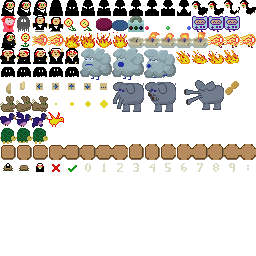
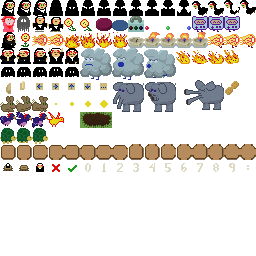
Clean up drums, and lots of graphics and maps tweaks

diff --git a/src/game/hero/hero_event.c b/src/game/hero/hero_event.c
@@ -194,6 +194,12 @@ static void hero_cast_fireball(struct sprite *sprite,double dx) {
 static void hero_cast_fireballl(struct sprite *sprite) { hero_cast_fireball(sprite,-1.0); }
 static void hero_cast_fireballr(struct sprite *sprite) { hero_cast_fireball(sprite,1.0); }
 
+static void hero_cast_invalid(struct sprite *sprite) {
+  // Called for loose UUUU and DDDD. A user might think that those would cause a vertical fireball, but we don't do vertical.
+  sfx(SFX_INVALID_SPELL);
+  SPRITE->spellc=0;
+}
+
 /* Turn into flower.
  */
  
@@ -271,6 +277,8 @@ static void hero_check_free_spell(struct sprite *sprite) {
   SPELLCHECK(fireballr,DIR_E,DIR_E,DIR_E,DIR_E)
   SPELLCHECK(flower,DIR_S,DIR_S,DIR_N,DIR_S)
   SPELLCHECK(disembody,DIR_N,DIR_W,DIR_E,DIR_S,DIR_N)
+  SPELLCHECK(invalid,DIR_N,DIR_N,DIR_N,DIR_N)
+  SPELLCHECK(invalid,DIR_S,DIR_S,DIR_S,DIR_S)
   #undef SPELLCHECK
 }
 

diff --git a/src/game/sprite/types/sprite_lock.c b/src/game/sprite/types/sprite_lock.c
@@ -17,7 +17,7 @@ static int _lock_init(struct sprite *sprite,const uint8_t *def,int defc) {
 
 static void _lock_update(struct sprite *sprite,double elapsed) {
   if (SPRITE->unlock_clock>0.0) {
-    if ((SPRITE->unlock_clock+=elapsed)>4.0) {
+    if ((SPRITE->unlock_clock+=elapsed)>2.0) {
       sprite_kill_later(sprite);
       return;
     }

diff --git a/README.md b/README.md
@@ -8,28 +8,14 @@ For [GDEX Game Jam 2024](https://itch.io/jam/gdex-game-jam-2024), theme "FULL MO
 
 ## TODO
 
-Required:
-- [x] Sound effects.
-- [x] Sound effect in web. All screwed up compared to native.
-- [x] Fireworks when transforming to/from animal. ...only "from". Stepping out of the hole is good, doesn't need accentuation.
-- [x] Crow. Or maybe drop it. Is there any need for a crow's assistance? ...have somebody play at the review session Wednesday. Drop it.
 - [ ] Open Itch page to public. Currently password "dot-in-a-habit"
-
-Stretch goals or uncertain:
-- [ ] Make the three cluestones more distinctive.
-- [x] Change the finale to night with a big full moon.
 - [ ] Hello: Roll in credits after a delay?
 - [ ] Static map animation, eg ripples on water.
 - [ ] Visual transitions.
 - [ ] Music.
-- - [ ] Drums for Doors Without Walls.
 - - [ ] Review instruments again, after I've heard them all a few times.
 - - [ ] '' sound effects.
 - [ ] fleshpuppet should take damage while ghost. There's very few places where damage is possible, I don't think this matters.
-- [x] Bonfires react to wind.
-- [ ] Tone down the lake just south of the fireball cluestone. Or put a secret there. Looks like a secret.
-- [x] Can we lead them into the tree stump harder at first? ...yes: Put the stump out in the middle of the clearing.
-- [ ] Vertical fireball? Or just "nyrrrgh" when they go UUUU or DDDD.
 
 ## Recommended Course
 
